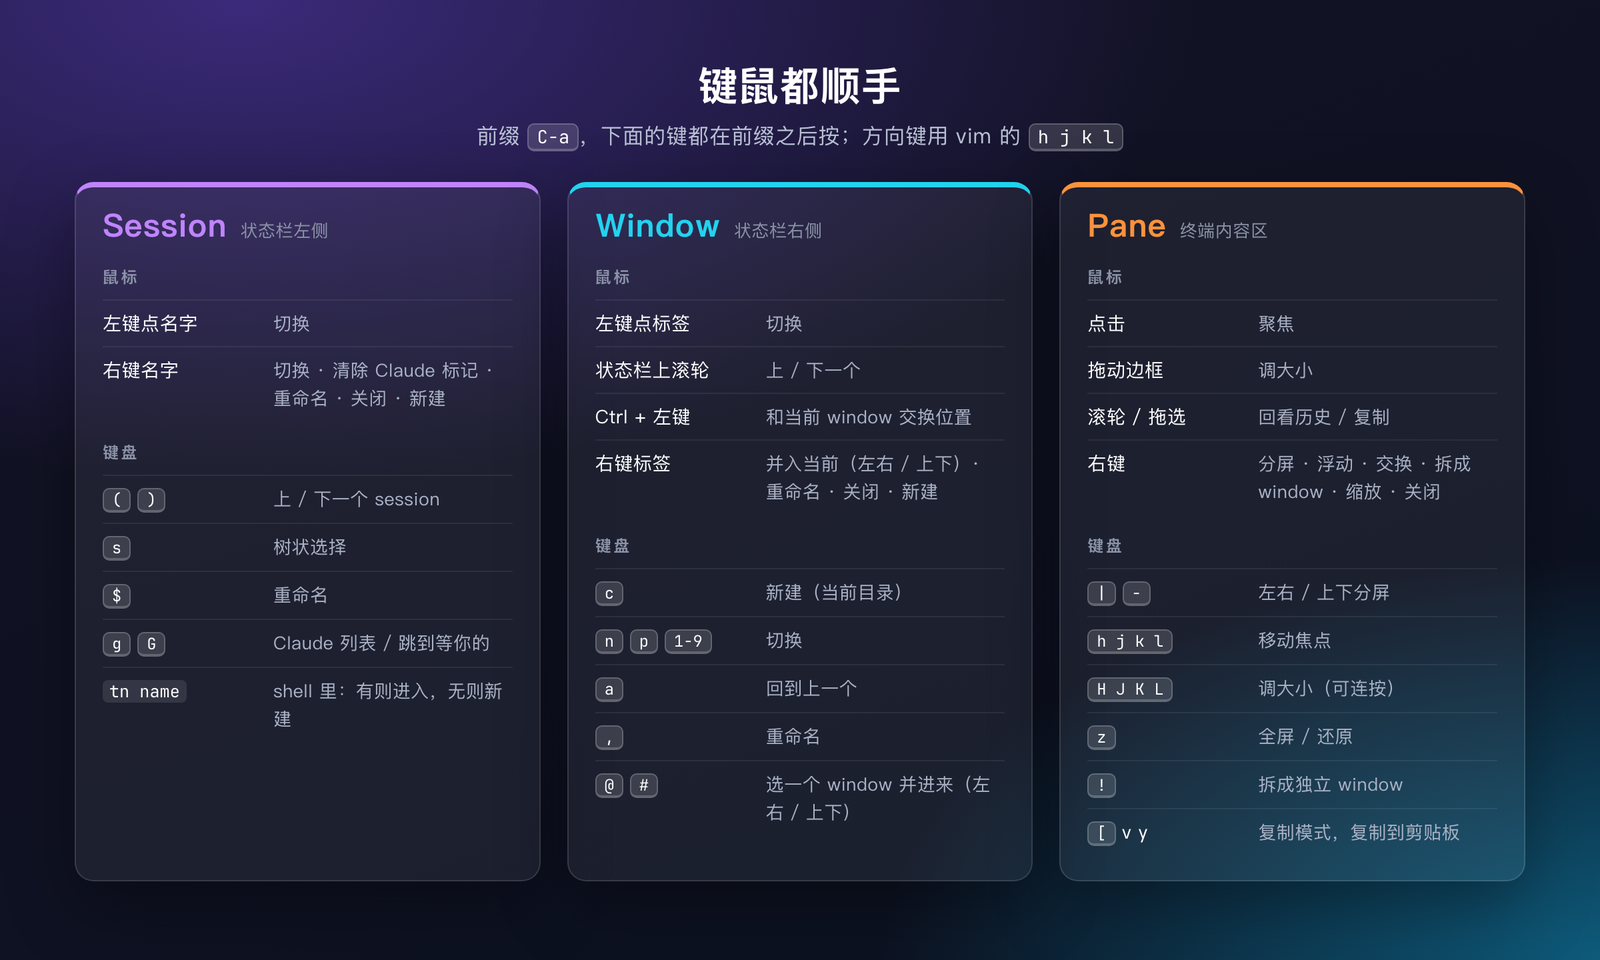
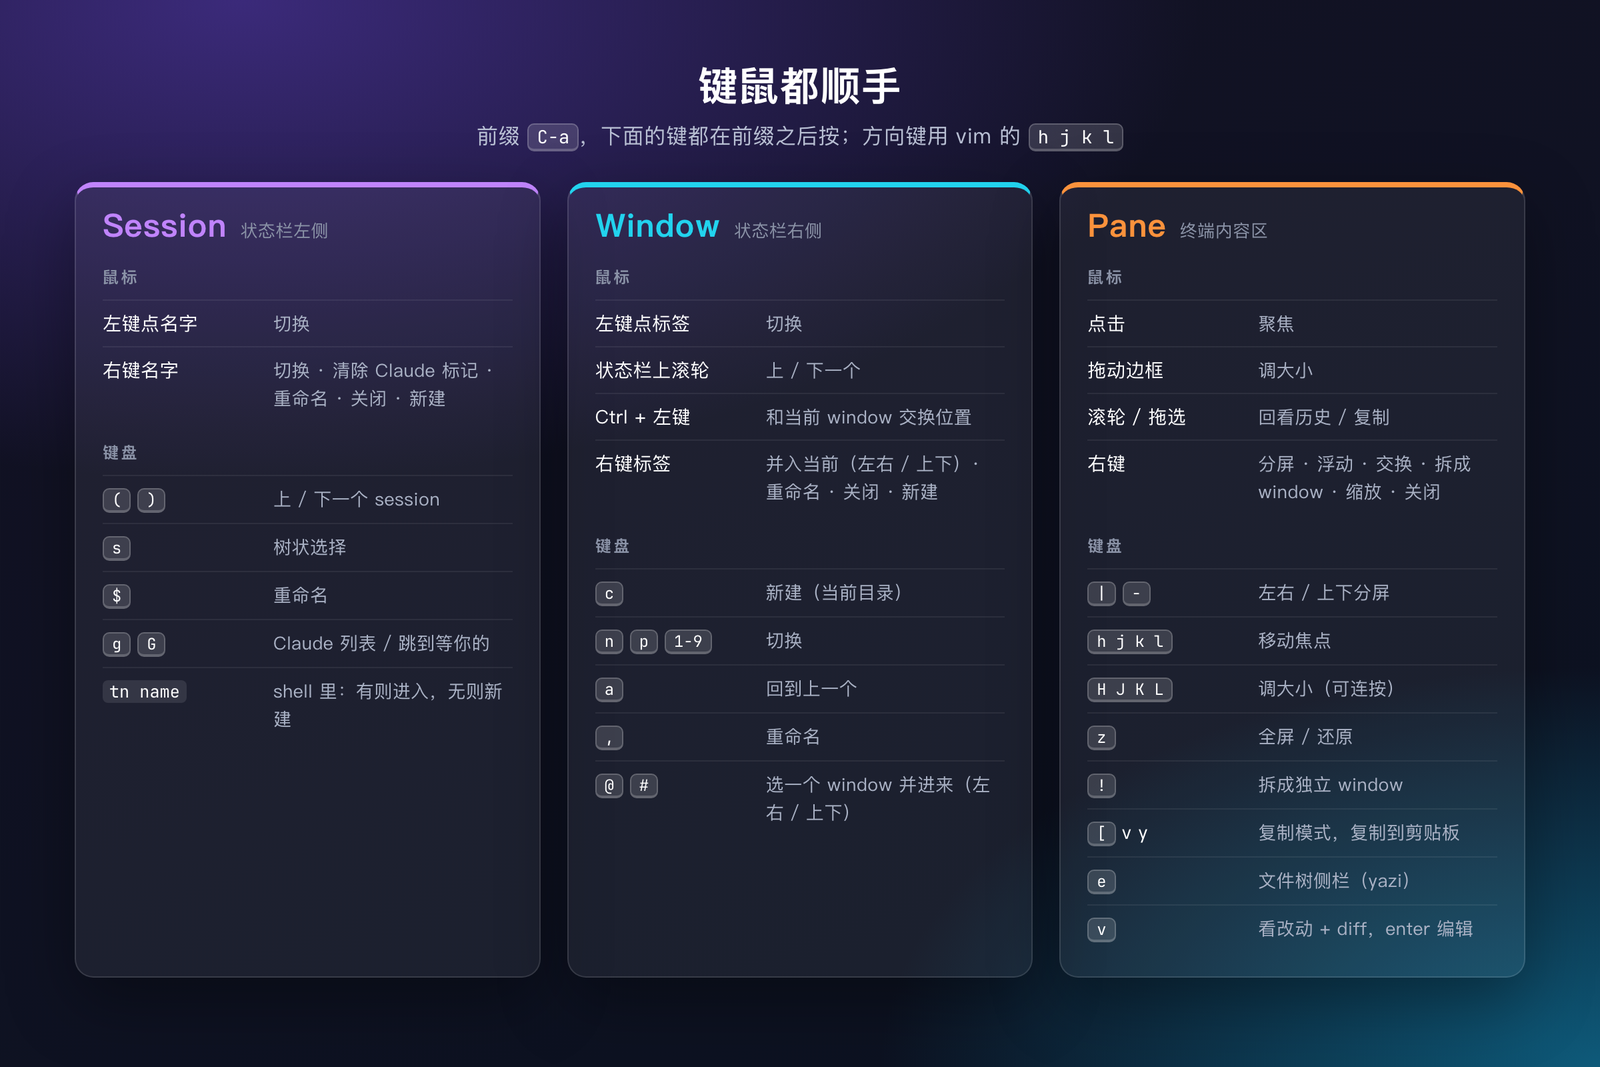
Add file tree sidebar (prefix e) and changes review popup (prefix v)
- changes: fzf over git status (-z) with delta diff preview, enter to edit
- explorer: toggle a yazi sidebar left of the current pane (@explorer mark)
- edit-popup: open $EDITOR in a tmux popup (used by yazi's edit opener)
- install.sh: yazi, git-delta, Symbols Nerd Font; deploy scripts and yazi.toml
- README (en/zh): Browse, review, tweak section; keys image gains e / v

diff --git a/docs/src/scene.html b/docs/src/scene.html
@@ -83,6 +83,8 @@ code{font-family:'JetBrains Mono',monospace;font-size:.9em;color:#fff;background
 .tl{background:#4ade80;right:0;top:30px}.tc{background:#f472b6;left:0;bottom:30px}.tu{background:#facc15;left:-4px;bottom:-34px}
 .ub{display:flex;align-items:center;gap:12px;margin:6px 0 0 8px}.un{width:64px}.ut{width:200px;height:12px;background:#3a3a3a;border-radius:2px;overflow:hidden;display:inline-block}.ut span{display:block;height:100%}.up{width:42px;text-align:right;font-weight:700}.ua{color:#bcbcbc;white-space:nowrap}
 .ut2{border-collapse:collapse;margin:8px 0 0 8px;font-size:13.5px}.ut2 th,.ut2 td{border:1px solid #4a4a4a;padding:2px 14px;text-align:right}.ut2 th{color:#fff}.ut2 td:first-child,.ut2 th:first-child{text-align:left}
+.ze{--zc:#a78bfa;outline-offset:-4px}.te{background:#a78bfa;left:10px;bottom:12px}
+.ysel{background:#61afef;color:#111}.dm{background:#3f1d22;color:#ffb3b8}.dp{background:#1d3b2a;color:#b5f2c8}
 </style></head>
 <body><div id="root"></div>
 <script>
@@ -214,7 +216,7 @@ if(scene==='keys'){
   const li=(a,b)=>`<li><span class="act">${a}</span><span class="how">${b}</span></li>`;
   const col=(cls,title,sub,mouse,keys)=>`<div class="kc ${cls}"><div class="kh"><span class="kt">${title}</span><span class="ks">${sub}</span></div>
     <div class="kg">${T('鼠标','Mouse')}</div><ul>${mouse.join('')}</ul><div class="kg">${T('键盘','Keyboard')}</div><ul>${keys.join('')}</ul></div>`;
-  html=`<div class="stage" style="width:1200px;height:720px">
+  html=`<div class="stage" style="width:1200px;height:800px">
     <div class="head"><h1>${T('键鼠都顺手','Mouse and keyboard, both first-class')}</h1><p>${T('前缀 ','Prefix ')}${K('C-a')}${T('，下面的键都在前缀之后按；方向键用 vim 的 ',', all keys below come after it; vim-style ')}${K('h j k l')}</p></div>
     <div class="kcs">
     ${col('cs','Session',T('状态栏左侧','left of the status bar'),[
@@ -251,6 +253,8 @@ if(scene==='keys'){
       li(K('z'),T('全屏 / 还原','zoom / unzoom')),
       li(K('!'),T('拆成独立 window','break out to a window')),
       li(K('[')+' v y',T('复制模式，复制到剪贴板','copy mode → clipboard')),
+      li(K('e'),T('文件树侧栏（yazi）','file tree sidebar (yazi)')),
+      li(K('v'),T('看改动 + diff，enter 编辑','changed files + diff, enter to edit')),
     ])}
     </div></div>`;
 }
@@ -355,6 +359,34 @@ if(scene==='hero2'){
     <div class="head"><h1>claude-tmux</h1><p>${T('优雅的 Claude TUI，基于 tmux：Session · Window · Pane 三级设计 + 多 agent 协作','An elegant TUI for Claude, based on tmux: a three-level Session · Window · Pane design, built for working with agents')}</p></div>
     ${win('tmux',st+body)}
     <div class="cap">${caps[ph]}</div></div>`;
+}
+
+if(scene==='files'){
+  const sessions=[['main','',false],['api-server','done',true],['docs','run',false]];
+  const windows=[['1:claude*','done',true],['2:server','',false]];
+  const tree=[['','src',1],['','routes',0],['','lib',0],['','tests',0],['','package.json',0],['','README.md',0]];
+  const yz=`<div class="pane zone ze" style="flex:0 0 30%;padding:6px 8px;white-space:normal"><div class="c-c" style="white-space:pre">~/code/api-server</div><div style="display:flex;gap:8px;margin-top:4px">
+    <div style="flex:1">${tree.map(t=>`<div class="${t[2]?'ysel':''}" style="white-space:pre"> ${t[0]==='' ? (t[1].includes('.')?'·':'▸') : ''} ${t[1]}</div>`).join('')}</div>
+    <div style="flex:1;border-left:1px solid #3a3a3a;padding-left:8px">${['routes','lib','index.ts','server.ts'].map(x=>`<div class="c-dim" style="white-space:pre">${x}</div>`).join('')}</div></div>
+    <span class="tag te">${T('prefix e · 文件树侧栏','prefix e · file tree sidebar')}</span></div>`;
+  const files=[[' M','src/routes/orders.ts','33',1],['A ','src/lib/paginate.ts','32',0],['??','tests/orders.test.ts','32',0],[' M','README.md','33',0]];
+  const flist=files.map(x=>`<div class="${x[3]?'sel':''}" style="white-space:pre"><span style="color:${x[2]==='32'?'#4fc28c':'#e5b567'}">${x[0]}</span>  ${x[1]}</div>`).join('');
+  const dl=(t,c)=>`<div class="${c}" style="white-space:pre">${t}</div>`;
+  const diff=[dl('<span class="b c-b">src/routes/orders.ts</span>',''),dl('<span class="c-dim">──────────────────────────────</span>',''),
+    dl(' router.get(\'/orders\', async (req, res) =&gt; {',''),
+    dl('-  const orders = await db.orders.findAll();','dm'),
+    dl('+  const { page = 1, size = 20 } = req.query;','dp'),
+    dl('+  const orders = await paginate(db.orders, page);','dp'),
+    dl('   res.json(orders);',''),dl(' });','')].join('');
+  const pop=`<div class="popup zu" style="left:31%;right:24px;top:24px;bottom:48px;padding:8px 12px;white-space:normal;display:flex;flex-direction:column"><span class="pt"> changes </span>
+    <div style="white-space:pre"><span class="c-b">api-server&gt;</span> <span class="cursor"> </span></div>
+    <div class="c-dim" style="white-space:pre">  ${T('enter 编辑 · ctrl-r 刷新 · esc 关闭','enter edit · ctrl-r refresh · esc close')}</div>
+    <div style="display:flex;gap:14px;margin-top:6px;flex:1"><div style="flex:0 0 33%">${flist}</div><div style="flex:1;border-left:1px solid #4a4a4a;padding-left:12px">${diff}</div></div>
+    <span class="tag tu">${T('prefix v · Claude 改了什么（delta diff，enter 编辑）','prefix v · what Claude changed (delta diff, enter to edit)')}</span></div>`;
+  const body=`<div class="panes" style="height:430px">${yz}<div class="vsep"></div><div class="pane" style="opacity:.35">${claudeRun(3)}</div>${pop}</div>`;
+  html=`<div class="stage" style="width:1200px;height:700px">
+    <div class="head"><h1>${T('看文件、看改动、顺手改','Browse, review, tweak')}</h1><p>${T('文件树是并排看的，放侧栏 pane；看改动是偶尔的，放弹窗','The file tree sits beside Claude as a pane; reviewing changes is occasional, so it is a popup')}</p></div>
+    ${win('tmux',bar(sessions,windows,1,null)+body)}</div>`;
 }
 
 // lang=en：在最终 HTML 上按 中文→英文 替换（长串先替换，避免被短串截断）

diff --git a/docs/src/mkgif.py b/docs/src/mkgif.py
@@ -17,6 +17,6 @@ for p in picks: sheet.paste(p,(0,y)); y+=p.height
 pal=sheet.quantize(colors=255,method=Image.Quantize.FASTOCTREE,kmeans=2)
 q=[f.quantize(palette=pal,dither=Image.Dither.NONE) for f in frames]
 q[0].save(o,save_all=True,append_images=q[1:],duration=dur,loop=0,optimize=True,disposal=1)
-for n in ['states','picker','menu','layout','keys','menus','agents','usage']:
+for n in ['states','picker','menu','layout','keys','menus','agents','usage','files']:
     im=Image.open(f'{d}/{n}.png').convert('RGB'); im=im.resize((W,round(im.height*W/im.width)),Image.LANCZOS)
     im.save(f'{o.rsplit("/",1)[0]}/{n}.png',optimize=True)

diff --git a/SKILL.md b/SKILL.md
@@ -97,6 +97,7 @@ vim-plug 管理：vim-sensible、NERDTree、commentary、surround、repeat、fug
 - tmux 钩子：`client-session-changed` / `session-window-changed` / `after-select-pane` → `tmux-cc.sh focus #{pane_id}`（清该 pane 的 done）；`pane-exited` / `after-kill-pane` / `session-closed` → `tmux-cc.sh gc`（pane 里已无 `claude` 进程的残留状态清掉，再重新汇总）。钩子里的路径用 `$HOME`，单引号里的 `~` 不会展开。
 - `prefix g`：fzf popup 列出所有 Claude（等确认 > 跑完 > 在跑，同状态按时间先后），预览 pane 输出，回车跳过去；`prefix G`：直接跳到最早等你的（没有则最早跑完的）。`prefix a` 被 tmux-sensible 占为 last-window，所以没用。
 - 等确认时 `display-message` 提示，正盯着那个 pane 时不提示；正盯着的 pane 跑完不标 done。调试：`tmux-cc.sh list`。
+- 文件：`~/.config/tmux/bin/`（副本 `files/tmux-bin/`，install.sh tmux 部署）。`prefix v` = `changes`：popup（`-d #{pane_current_path}`）里 fzf 列 `git status --porcelain -z`（-z 避免带空格路径被加引号，改名记录跳过原路径），右侧 `delta` 预览 diff，enter 用 `changes.editor` 打开 `$EDITOR`，ctrl-r 刷新。`prefix e` = `explorer <pane_id> <path>`：当前 pane 左侧 `split-window -h -b -l 30%` 跑 yazi，pane 选项 `@explorer=1` 标记，再按一次关闭。yazi 配置 `files/yazi/yazi.toml` → `~/.config/yazi/`：`ratio=[0,1,1]`，edit opener 调 `edit-popup %s`（tmux 弹窗里开 `$EDITOR`；百分号不能直接写进 yazi 的 run，否则和占位符冲突）。图标靠 `font-symbols-only-nerd-font` 让 macOS 字体回退，不换终端字体。`prefix d` 是 tmux 默认 detach，别占用。
 - 额度 / 用量：`~/.claude/hooks/cc-statusline.sh`（副本 `files/claude/cc-statusline.sh`）是 Claude Code 的 statusLine，输出 `模型 · ctx N%`，同时把 statusLine 输入里的 `rate_limits.five_hour/seven_day` 写进 tmux 全局选项 `@cc_5h/@cc_7d`（%）、`@cc_*_ts`（重置 epoch）、`@cc_*_at`（可读时间）；不在 tmux 里时额度直接显示在 Claude 底部。tmux 状态栏右侧 `#{E:@cc_lim}` 按 <50 绿 / <80 黄 / ≥80 红显示，≥80 带 `↻重置时间`，过了重置时间（`#{e|<:%s,ts}`）自动隐藏。注意嵌套格式每层都会做一次 strftime，条件分支里的百分号要写 `%%%%`。tmux 启动时 `tmux-cc.sh usage-cache` 从 `~/.claude.json` 的 `cachedUsageUtilization` 兜底。`prefix u` 弹窗 = `tmux-cc.sh usage`：额度进度条 + `bunx ccusage@20.0.41 daily --last 7 --offline`，用 less 翻页。install.sh 只在没有 statusLine 时设置，已有则提示。
 - 提示文字语言由 tmux 选项 `@cc_lang`（zh 默认 / en）决定，tmux.conf 里显式设为 zh；脚本里 `load_lang` 只在要输出文字时才读。
 - README：英文 `README.md`（主）+ 中文 `README.zh-CN.md`；展示图由 `docs/src/scene.html?lang=en|zh` 仿真渲染，`bash docs/src/render.sh` 生成 `docs/img/en/`、`docs/img/zh/` 两套，中文翻译表在 scene.html 末尾的 `EN` 对象里。

diff --git a/README.md b/README.md
@@ -52,6 +52,14 @@ Prefix is `C-a`. Movement uses vim's `h j k l`. Splits open in the current direc
 
 Inside a session, combine this with part 1. Keep Claude in window 1 and the server or logs in window 2. When you need to watch logs while approving, join that window next to Claude with `prefix @`, and break it back out with `prefix !` when you're done. Two Claudes in panes of the same window keep separate states.
 
+### Browse, review, tweak
+
+![Browse, review, tweak](docs/img/en/files.png)
+
+- **`prefix v`: what did Claude change?** A popup lists the changed and untracked files of the current pane's git repo, with a [delta](https://github.com/dandavison/delta) diff on the right. Enter opens the file in `$EDITOR`, `ctrl-r` refreshes, Esc closes. It is occasional, so it is a popup, like `prefix g` and `prefix u`.
+- **`prefix e`: file tree sidebar.** Toggles [yazi](https://github.com/sxyazi/yazi) in a pane on the left (about 30% wide), opened in the current pane's directory. You browse next to Claude, so it is a pane, and `prefix !` can break it out into its own window. Text files open in `$EDITOR` in a popup, because the sidebar is too narrow to edit in.
+- Claude Code notices when a file changed after it read it, so you won't overwrite each other. Still, avoid editing a file while Claude is in the middle of editing it.
+
 ### How the badges work
 
 Claude Code hooks write each pane's state into tmux options. The status bar renders them:
@@ -104,7 +112,7 @@ Each kind of number goes where it belongs:
 - **tmux**: vi copy mode (copies to the macOS clipboard). Sessions are restored with resurrect + continuum. zsh auto-attaches to a `main` session. Requires tmux ≥ 3.8.
 - **zsh**: no framework. Uses eza / bat / fzf / zoxide / starship / autosuggestions / syntax-highlighting, plus small fzf helpers `f`, `fv`, `rgi`, `cproj`.
 - **vim**: vim-plug with NERDTree, fugitive, lightline, and more.
-- **iTerm2**: "Moshi Dark" dynamic profile (JetBrains Mono + Noto Sans Mono CJK) and the Minimal theme.
+- **iTerm2**: "Moshi Dark" dynamic profile (JetBrains Mono + Noto Sans Mono CJK) and the Minimal theme. Symbols Nerd Font supplies yazi's file icons through macOS font fallback, so you don't have to change fonts.
 
 ## Install
 
